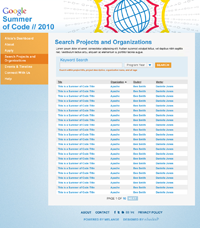
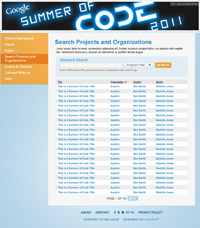
Add new mockups version 2-22

Changed region(s): [[0.0, 0.0, 1.0, 0.1535]]

diff --git a/mockups/homepage.html b/mockups/homepage.html
@@ -21,8 +21,7 @@
 <div id="page-header">
     <div class="container_12">
         <div class="grid_12">
-            <a href="homepage.html"><img src="images/google.png" height="40" width="114" alt="Google" /></a>
-            <p><a href="homepage.html">Summer<br />of Code // 2011</a></p>
+            <a href="homepage.html"><img src="images/logo-banner.jpg" height="156" width="924" alt="Google Summer of Code" /></a>
         </div>
     </div>
 </div>
@@ -94,7 +93,7 @@
                 </div>
                 <!-- .home-block-1 -->
                 
-                <div id="apply-students" class="content_column_1">
+                <div class="content_column_1">
                     <!-- begin block -->
                     <div id="apply-students" class="block block-students">
                         <img src="images/students-apply-now.jpg" height="107" width="429" alt="" id="block-apply-students-image" />
@@ -131,13 +130,13 @@
                     <div id="program-map" class="block block-project-timeline">
                         <h4 id="title-section-program-timeline">Program Timeline</h4>
                         <div id="block-program-timeline-content" class="block-content">
-                            <img id="program-timeline" src="images/image-map-student-apps.png" usemap="#program-timeline" width="210" height="169" alt="" />
+                            <img id="program-timeline" src="images/image-map-student-apps.png" usemap="#program-timeline" width="210" height="181" alt="" />
                             <map id="_program-timeline" name="program-timeline">
-                            <area shape="poly" coords="75,105,52,105,55,87,69,66,93,54,119,55,138,66,149,78,129,90,118,79,99,76,85,82,77,95," href="javascript:void(0)" alt="On Season" title="On Season" onmouseover="if(document.images) document.getElementById('program-timeline').src= 'images/image-map-on-season.png';" onMouseOut="if(document.images) document.getElementById('program-timeline').src= 'images/image-map-student-apps.png';" />
-                            <area shape="poly" coords="130,90,150,80,157,106,133,106," href="javascript:void(0)" alt="Students Applications" title="Students Coding" onmouseover="if(document.images) document.getElementById('program-timeline').src= 'images/image-map-student-apps.png';" onMouseOut="if(document.images) document.getElementById('program-timeline').src= 'images/image-map-student-apps.png';" />
-                            <area shape="poly" coords="131,121,136,106,157,107,151,133," href="javascript:void(0)" alt="Organization Applications" title="Organization Applications" onmouseover="if(document.images) document.getElementById('program-timeline').src= 'images/image-map-org-apps.png';" onMouseOut="if(document.images) document.getElementById('program-timeline').src= 'images/image-map-student-apps.png';" />
-                            <area shape="poly" coords="120,131,130,122,149,134,130,150," href="javascript:void(0)" alt="Kickoff" title="Kickoff" onmouseover="if(document.images) document.getElementById('program-timeline').src= 'images/image-map-kickoff.png';" onMouseOut="if(document.images) document.getElementById('program-timeline').src= 'images/image-map-student-apps.png';" />
-                            <area shape="poly" coords="119,132,129,151,103,157,83,152,65,138,55,121,53,106,75,106,81,126,101,135," href="javascript:void(0)" alt="Off Season" title="Off Season" onmouseover="if(document.images) document.getElementById('program-timeline').src= 'images/image-map-off-season.png';" onMouseOut="if(document.images) document.getElementById('program-timeline').src= 'images/image-map-student-apps.png';" />
+                            <area shape="poly" coords="45,113,56,79,78,60,107,55,134,63,155,84,133,98,118,82,94,79,77,93,72,114," href="javascript:void(0)" alt="On Season" title="On Season" onMouseOver="if(document.images) document.getElementById('program-timeline').src= 'images/image-map-on-season.png';" onMouseOut="if(document.images) document.getElementById('program-timeline').src= 'images/image-map-student-apps.png';" />
+                            <area shape="poly" coords="133,98,143,90,155,84,162,98,164,114,136,114," href="javascript:void(0)" alt="Students Applications" title="Students Applications" onMouseOver="if(document.images) document.getElementById('program-timeline').src= 'images/image-map-student-apps.png';" onMouseOut="if(document.images) document.getElementById('program-timeline').src= 'images/image-map-student-apps.png';" />
+                            <area shape="poly" coords="132,130,137,114,164,114,163,130,156,145,143,137" href="javascript:void(0)" alt="Organization Applications" title="Organization Applications" onMouseOver="if(document.images) document.getElementById('program-timeline').src= 'images/image-map-org-apps.png';" onMouseOut="if(document.images) document.getElementById('program-timeline').src= 'images/image-map-student-apps.png';" />
+                            <area shape="poly" coords="120,142,134,131,155,143,147,156,133,165," href="javascript:void(0)" alt="Kickoff" title="Kickoff" onMouseOver="if(document.images) document.getElementById('program-timeline').src= 'images/image-map-kickoff.png';" onMouseOut="if(document.images) document.getElementById('program-timeline').src= 'images/image-map-student-apps.png';" />
+                            <area shape="poly" coords="45,113,72,113,79,138,105,147,121,141,134,164,100,169,72,161,55,143,48,129," href="javascript:void(0)" alt="Off Season" title="Off Season" onMouseOver="if(document.images) document.getElementById('program-timeline').src= 'images/image-map-off-season.png';" onMouseOut="if(document.images) document.getElementById('program-timeline').src= 'images/image-map-student-apps.png';" />
                             </map>
                         </div>
                     </div>

diff --git a/mockups/homepage-offseason.html b/mockups/homepage-offseason.html
@@ -21,8 +21,7 @@
 <div id="page-header">
     <div class="container_12">
         <div class="grid_12">
-            <a href="homepage.html"><img src="images/google.png" height="40" width="114" alt="Google" /></a>
-            <p><a href="homepage.html">Summer<br />of Code // 2011</a></p>
+            <a href="homepage-offseason.html"><img src="images/logo-banner.jpg" height="156" width="924" alt="Google Summer of Code" /></a>
         </div>
     </div>
 </div>
@@ -135,13 +134,13 @@
                     <div id="program-map" class="block block-project-timeline">
                         <h4 id="title-section-program-timeline">Program Timeline</h4>
                         <div id="block-program-timeline-content" class="block-content">
-                            <img id="program-timeline" src="images/image-map-off-season.png" usemap="#program-timeline" width="210" height="169" alt="" />
+                            <img id="program-timeline" src="images/image-map-off-season.png" usemap="#program-timeline" width="210" height="181" alt="" />
                             <map id="_program-timeline" name="program-timeline">
-                            <area shape="poly" coords="75,105,52,105,55,87,69,66,93,54,119,55,138,66,149,78,129,90,118,79,99,76,85,82,77,95," href="javascript:void(0)" alt="On Season" title="On Season" onmouseover="if(document.images) document.getElementById('program-timeline').src= 'images/image-map-on-season.png';" onMouseOut="if(document.images) document.getElementById('program-timeline').src= 'images/image-map-off-season.png';" />
-                            <area shape="poly" coords="130,90,150,80,157,106,133,106," href="javascript:void(0)" alt="Student Applications" title="Student Applications" onmouseover="if(document.images) document.getElementById('program-timeline').src= 'images/image-map-student-apps.png';" onMouseOut="if(document.images) document.getElementById('program-timeline').src= 'images/image-map-off-season.png';" />
-                            <area shape="poly" coords="131,121,136,106,157,107,151,133," href="javascript:void(0)" alt="Organization Applications" title="Organization Applications" onmouseover="if(document.images) document.getElementById('program-timeline').src= 'images/image-map-org-apps.png';" onMouseOut="if(document.images) document.getElementById('program-timeline').src= 'images/image-map-off-season.png';" />
-                            <area shape="poly" coords="120,131,130,122,149,134,130,150," href="javascript:void(0)" alt="Kickoff" title="Kickoff" onmouseover="if(document.images) document.getElementById('program-timeline').src= 'images/image-map-kickoff.png';" onMouseOut="if(document.images) document.getElementById('program-timeline').src= 'images/image-map-off-season.png';" />
-                            <area shape="poly" coords="119,132,129,151,103,157,83,152,65,138,55,121,53,106,75,106,81,126,101,135," href="javascript:void(0)" alt="Off Season" title="Off Season" onmouseover="if(document.images) document.getElementById('program-timeline').src= 'images/image-map-off-season.png';" onMouseOut="if(document.images) document.getElementById('program-timeline').src= 'images/image-map-off-season.png';" />
+                            <area shape="poly" coords="45,113,56,79,78,60,107,55,134,63,155,84,133,98,118,82,94,79,77,93,72,114," href="javascript:void(0)" alt="On Season" title="On Season" onMouseOver="if(document.images) document.getElementById('program-timeline').src= 'images/image-map-on-season.png';" onMouseOut="if(document.images) document.getElementById('program-timeline').src= 'images/image-map-off-season.png';" />
+                            <area shape="poly" coords="133,98,143,90,155,84,162,98,164,114,136,114," href="javascript:void(0)" alt="Students Applications" title="Students Applications" onMouseOver="if(document.images) document.getElementById('program-timeline').src= 'images/image-map-student-apps.png';" onMouseOut="if(document.images) document.getElementById('program-timeline').src= 'images/image-map-off-season.png';" />
+                            <area shape="poly" coords="132,130,137,114,164,114,163,130,156,145,143,137" href="javascript:void(0)" alt="Organization Applications" title="Organization Applications" onMouseOver="if(document.images) document.getElementById('program-timeline').src= 'images/image-map-org-apps.png';" onMouseOut="if(document.images) document.getElementById('program-timeline').src= 'images/image-map-off-season.png';" />
+                            <area shape="poly" coords="120,142,134,131,155,143,147,156,133,165," href="javascript:void(0)" alt="Kickoff" title="Kickoff" onMouseOver="if(document.images) document.getElementById('program-timeline').src= 'images/image-map-kickoff.png';" onMouseOut="if(document.images) document.getElementById('program-timeline').src= 'images/image-map-off-season.png';" />
+                            <area shape="poly" coords="45,113,72,113,79,138,105,147,121,141,134,164,100,169,72,161,55,143,48,129," href="javascript:void(0)" alt="Off Season" title="Off Season" onMouseOver="if(document.images) document.getElementById('program-timeline').src= 'images/image-map-off-season.png';" onMouseOut="if(document.images) document.getElementById('program-timeline').src= 'images/image-map-off-season.png';" />
                             </map>
                         </div>
                     </div>

diff --git a/mockups/homepage-mentor.html b/mockups/homepage-mentor.html
@@ -21,8 +21,7 @@
 <div id="page-header">
     <div class="container_12">
         <div class="grid_12">
-            <a href="homepage.html"><img src="images/google.png" height="40" width="114" alt="Google" /></a>
-            <p><a href="homepage.html">Summer<br />of Code // 2011</a></p>
+            <a href="homepage-mentor.html"><img src="images/logo-banner.jpg" height="156" width="924" alt="Google Summer of Code" /></a>
         </div>
     </div>
 </div>
@@ -144,13 +143,13 @@
                     <div id="program-map" class="block block-project-timeline">
                         <h4 id="title-section-program-timeline">Program Timeline</h4>
                         <div id="block-program-timeline-content" class="block-content">
-                            <img id="program-timeline" src="images/image-map-org-apps.png" usemap="#program-timeline" width="210" height="169" alt="" />
+                            <img id="program-timeline" src="images/image-map-org-apps.png" usemap="#program-timeline" width="210" height="181" alt="" />
                             <map id="_program-timeline" name="program-timeline">
-                            <area shape="poly" coords="75,105,52,105,55,87,69,66,93,54,119,55,138,66,149,78,129,90,118,79,99,76,85,82,77,95," href="javascript:void(0)" alt="On Season" title="On Season" onmouseover="if(document.images) document.getElementById('program-timeline').src= 'images/image-map-on-season.png';" onMouseOut="if(document.images) document.getElementById('program-timeline').src= 'images/image-map-org-apps.png';" />
-                            <area shape="poly" coords="130,90,150,80,157,106,133,106," href="javascript:void(0)" alt="Student Applications" title="Student Applications" onmouseover="if(document.images) document.getElementById('program-timeline').src= 'images/image-map-student-apps.png';" onMouseOut="if(document.images) document.getElementById('program-timeline').src= 'images/image-map-org-apps.png';" />
-                            <area shape="poly" coords="131,121,136,106,157,107,151,133," href="javascript:void(0)" alt="Organization Applications" title="Organization Applications" onmouseover="if(document.images) document.getElementById('program-timeline').src= 'images/image-map-org-apps.png';" onMouseOut="if(document.images) document.getElementById('program-timeline').src= 'images/image-map-org-apps.png';" />
-                            <area shape="poly" coords="120,131,130,122,149,134,130,150," href="javascript:void(0)" alt="Kickoff" title="Kickoff" onmouseover="if(document.images) document.getElementById('program-timeline').src= 'images/image-map-kickoff.png';" onMouseOut="if(document.images) document.getElementById('program-timeline').src= 'images/image-map-org-apps.png';" />
-                            <area shape="poly" coords="119,132,129,151,103,157,83,152,65,138,55,121,53,106,75,106,81,126,101,135," href="javascript:void(0)" alt="Off Season" title="Off Season" onmouseover="if(document.images) document.getElementById('program-timeline').src= 'images/image-map-off-season.png';" onMouseOut="if(document.images) document.getElementById('program-timeline').src= 'images/image-map-org-apps.png';" />
+                            <area shape="poly" coords="45,113,56,79,78,60,107,55,134,63,155,84,133,98,118,82,94,79,77,93,72,114," href="javascript:void(0)" alt="On Season" title="On Season" onMouseOver="if(document.images) document.getElementById('program-timeline').src= 'images/image-map-on-season.png';" onMouseOut="if(document.images) document.getElementById('program-timeline').src= 'images/image-map-org-apps.png';" />
+                            <area shape="poly" coords="133,98,143,90,155,84,162,98,164,114,136,114," href="javascript:void(0)" alt="Students Applications" title="Students Applications" onMouseOver="if(document.images) document.getElementById('program-timeline').src= 'images/image-map-student-apps.png';" onMouseOut="if(document.images) document.getElementById('program-timeline').src= 'images/image-map-org-apps.png';" />
+                            <area shape="poly" coords="132,130,137,114,164,114,163,130,156,145,143,137" href="javascript:void(0)" alt="Organization Applications" title="Organization Applications" onMouseOver="if(document.images) document.getElementById('program-timeline').src= 'images/image-map-org-apps.png';" onMouseOut="if(document.images) document.getElementById('program-timeline').src= 'images/image-map-org-apps.png';" />
+                            <area shape="poly" coords="120,142,134,131,155,143,147,156,133,165," href="javascript:void(0)" alt="Kickoff" title="Kickoff" onMouseOver="if(document.images) document.getElementById('program-timeline').src= 'images/image-map-kickoff.png';" onMouseOut="if(document.images) document.getElementById('program-timeline').src= 'images/image-map-org-apps.png';" />
+                            <area shape="poly" coords="45,113,72,113,79,138,105,147,121,141,134,164,100,169,72,161,55,143,48,129," href="javascript:void(0)" alt="Off Season" title="Off Season" onMouseOver="if(document.images) document.getElementById('program-timeline').src= 'images/image-map-off-season.png';" onMouseOut="if(document.images) document.getElementById('program-timeline').src= 'images/image-map-org-apps.png';" />
                             </map>
                         </div>
                     </div>

diff --git a/mockups/homepage-orgs.html b/mockups/homepage-orgs.html
@@ -21,8 +21,7 @@
 <div id="page-header">
     <div class="container_12">
         <div class="grid_12">
-            <a href="homepage.html"><img src="images/google.png" height="40" width="114" alt="Google" /></a>
-            <p><a href="homepage.html">Summer<br />of Code // 2011</a></p>
+            <a href="homepage-orgs.html"><img src="images/logo-banner.jpg" height="156" width="924" alt="Google Summer of Code" /></a>
         </div>
     </div>
 </div>
@@ -133,13 +132,13 @@
                     <div id="program-map" class="block block-project-timeline">
                         <h4 id="title-section-program-timeline">Program Timeline</h4>
                         <div id="block-program-timeline-content" class="block-content">
-                            <img id="program-timeline" src="images/image-map-org-apps.png" usemap="#program-timeline" width="210" height="169" alt="" />
+                            <img id="program-timeline" src="images/image-map-org-apps.png" usemap="#program-timeline" width="210" height="181" alt="" />
                             <map id="_program-timeline" name="program-timeline">
-                            <area shape="poly" coords="75,105,52,105,55,87,69,66,93,54,119,55,138,66,149,78,129,90,118,79,99,76,85,82,77,95," href="javascript:void(0)" alt="On Season" title="On Season" onmouseover="if(document.images) document.getElementById('program-timeline').src= 'images/image-map-on-season.png';" onMouseOut="if(document.images) document.getElementById('program-timeline').src= 'images/image-map-org-apps.png';" />
-                            <area shape="poly" coords="130,90,150,80,157,106,133,106," href="javascript:void(0)" alt="Student Applications" title="Student Applications" onmouseover="if(document.images) document.getElementById('program-timeline').src= 'images/image-map-student-apps.png';" onMouseOut="if(document.images) document.getElementById('program-timeline').src= 'images/image-map-org-apps.png';" />
-                            <area shape="poly" coords="131,121,136,106,157,107,151,133," href="javascript:void(0)" alt="Organization Applications" title="Organization Applications" onmouseover="if(document.images) document.getElementById('program-timeline').src= 'images/image-map-org-apps.png';" onMouseOut="if(document.images) document.getElementById('program-timeline').src= 'images/image-map-org-apps.png';" />
-                            <area shape="poly" coords="120,131,130,122,149,134,130,150," href="javascript:void(0)" alt="Kickoff" title="Kickoff" onmouseover="if(document.images) document.getElementById('program-timeline').src= 'images/image-map-kickoff.png';" onMouseOut="if(document.images) document.getElementById('program-timeline').src= 'images/image-map-org-apps.png';" />
-                            <area shape="poly" coords="119,132,129,151,103,157,83,152,65,138,55,121,53,106,75,106,81,126,101,135," href="javascript:void(0)" alt="Off Season" title="Off Season" onmouseover="if(document.images) document.getElementById('program-timeline').src= 'images/image-map-off-season.png';" onMouseOut="if(document.images) document.getElementById('program-timeline').src= 'images/image-map-org-apps.png';" />
+                            <area shape="poly" coords="45,113,56,79,78,60,107,55,134,63,155,84,133,98,118,82,94,79,77,93,72,114," href="javascript:void(0)" alt="On Season" title="On Season" onMouseOver="if(document.images) document.getElementById('program-timeline').src= 'images/image-map-on-season.png';" onMouseOut="if(document.images) document.getElementById('program-timeline').src= 'images/image-map-org-apps.png';" />
+                            <area shape="poly" coords="133,98,143,90,155,84,162,98,164,114,136,114," href="javascript:void(0)" alt="Students Applications" title="Students Applications" onMouseOver="if(document.images) document.getElementById('program-timeline').src= 'images/image-map-student-apps.png';" onMouseOut="if(document.images) document.getElementById('program-timeline').src= 'images/image-map-org-apps.png';" />
+                            <area shape="poly" coords="132,130,137,114,164,114,163,130,156,145,143,137" href="javascript:void(0)" alt="Organization Applications" title="Organization Applications" onMouseOver="if(document.images) document.getElementById('program-timeline').src= 'images/image-map-org-apps.png';" onMouseOut="if(document.images) document.getElementById('program-timeline').src= 'images/image-map-org-apps.png';" />
+                            <area shape="poly" coords="120,142,134,131,155,143,147,156,133,165," href="javascript:void(0)" alt="Kickoff" title="Kickoff" onMouseOver="if(document.images) document.getElementById('program-timeline').src= 'images/image-map-kickoff.png';" onMouseOut="if(document.images) document.getElementById('program-timeline').src= 'images/image-map-org-apps.png';" />
+                            <area shape="poly" coords="45,113,72,113,79,138,105,147,121,141,134,164,100,169,72,161,55,143,48,129," href="javascript:void(0)" alt="Off Season" title="Off Season" onMouseOver="if(document.images) document.getElementById('program-timeline').src= 'images/image-map-off-season.png';" onMouseOut="if(document.images) document.getElementById('program-timeline').src= 'images/image-map-org-apps.png';" />
                             </map>
                         </div>
                     </div>

diff --git a/mockups/jqgrid.html b/mockups/jqgrid.html
@@ -34,39 +34,7 @@
     <script src="js/grid.locale-en.js" type="text/javascript"></script>
     <script src="js/jquery.jqGrid.min.js" type="text/javascript"></script>
     <script type="text/javascript">
-
-		jQuery(document).ready(function() {
-			jQuery("#list4").jqGrid({
-				datatype: "local",
-				height: 250,
-			   	colNames:['Inv No','Date', 'Client', 'Amount','Tax','Total','Notes'],
-			   	colModel:[
-			   		{name:'id',index:'id', width:60, sorttype:"int"},
-			   		{name:'invdate',index:'invdate', width:90, sorttype:"date"},
-			   		{name:'name',index:'name', width:100},
-			   		{name:'amount',index:'amount', width:80, align:"right",sorttype:"float"},
-			   		{name:'tax',index:'tax', width:80, align:"right",sorttype:"float"},		
-			   		{name:'total',index:'total', width:80,align:"right",sorttype:"float"},		
-			   		{name:'note',index:'note', width:150, sortable:false}		
-			   	],
-			   	multiselect: true,
-			   	caption: "Manipulating Array Data"
-			});
-			var mydata = [
-					{id:"1",invdate:"2007-10-01",name:"test",note:"note",amount:"200.00",tax:"10.00",total:"210.00"},
-					{id:"2",invdate:"2007-10-02",name:"test2",note:"note2",amount:"300.00",tax:"20.00",total:"320.00"},
-					{id:"3",invdate:"2007-09-01",name:"test3",note:"note3",amount:"400.00",tax:"30.00",total:"430.00"},
-					{id:"4",invdate:"2007-10-04",name:"test",note:"note",amount:"200.00",tax:"10.00",total:"210.00"},
-					{id:"5",invdate:"2007-10-05",name:"test2",note:"note2",amount:"300.00",tax:"20.00",total:"320.00"},
-					{id:"6",invdate:"2007-09-06",name:"test3",note:"note3",amount:"400.00",tax:"30.00",total:"430.00"},
-					{id:"7",invdate:"2007-10-04",name:"test",note:"note",amount:"200.00",tax:"10.00",total:"210.00"},
-					{id:"8",invdate:"2007-10-03",name:"test2",note:"note2",amount:"300.00",tax:"20.00",total:"320.00"},
-					{id:"9",invdate:"2007-09-01",name:"test3",note:"note3",amount:"400.00",tax:"30.00",total:"430.00"}
-					];
-			for(var i=0;i<=mydata.length;i++)
-				jQuery("#list4").jqGrid('addRowData',i+1,mydata[i]);			
-		})
-
+        jQuery("#list4").jqGrid({ datatype: "local", height: 250, colNames:['Inv No','Date', 'Client', 'Amount','Tax','Total','Notes'], colModel:[ {name:'id',index:'id', width:60, sorttype:"int"}, {name:'invdate',index:'invdate', width:90, sorttype:"date"}, {name:'name',index:'name', width:100}, {name:'amount',index:'amount', width:80, align:"right",sorttype:"float"}, {name:'tax',index:'tax', width:80, align:"right",sorttype:"float"}, {name:'total',index:'total', width:80,align:"right",sorttype:"float"}, {name:'note',index:'note', width:150, sortable:false} ], multiselect: true, caption: "Manipulating Array Data" }); var mydata = [ {id:"1",invdate:"2007-10-01",name:"test",note:"note",amount:"200.00",tax:"10.00",total:"210.00"}, {id:"2",invdate:"2007-10-02",name:"test2",note:"note2",amount:"300.00",tax:"20.00",total:"320.00"}, {id:"3",invdate:"2007-09-01",name:"test3",note:"note3",amount:"400.00",tax:"30.00",total:"430.00"}, {id:"4",invdate:"2007-10-04",name:"test",note:"note",amount:"200.00",tax:"10.00",total:"210.00"}, {id:"5",invdate:"2007-10-05",name:"test2",note:"note2",amount:"300.00",tax:"20.00",total:"320.00"}, {id:"6",invdate:"2007-09-06",name:"test3",note:"note3",amount:"400.00",tax:"30.00",total:"430.00"}, {id:"7",invdate:"2007-10-04",name:"test",note:"note",amount:"200.00",tax:"10.00",total:"210.00"}, {id:"8",invdate:"2007-10-03",name:"test2",note:"note2",amount:"300.00",tax:"20.00",total:"320.00"}, {id:"9",invdate:"2007-09-01",name:"test3",note:"note3",amount:"400.00",tax:"30.00",total:"430.00"} ]; for(var i=0;i<=mydata.length;i++) jQuery("#list4").jqGrid('addRowData',i+1,mydata[i]); 
     </script>
     <!-- 
     ////////////////////////
@@ -86,8 +54,7 @@
 <div id="page-header">
     <div class="container_12">
         <div class="grid_12">
-            <a href="homepage.html"><img src="images/google.png" height="40" width="114" alt="Google" /></a>
-            <p><a href="homepage.html">Summer<br />of Code // 2011</a></p>
+            <a href="homepage.html"><img src="images/logo-banner.jpg" height="156" width="924" alt="Google Summer of Code" /></a>
         </div>
     </div>
 </div>

diff --git a/mockups/dashboard-student.html b/mockups/dashboard-student.html
@@ -71,8 +71,7 @@
 <div id="page-header">
     <div class="container_12">
         <div class="grid_12">
-            <a href="homepage.html"><img src="images/google.png" height="40" width="114" alt="Google" /></a>
-            <p><a href="homepage.html">Summer<br />of Code // 2011</a></p>
+            <a href="homepage.html"><img src="images/logo-banner.jpg" height="156" width="924" alt="Google Summer of Code" /></a>
         </div>
     </div>
 </div>
@@ -130,7 +129,8 @@
                     <strong>ALERT:</strong> Your evaluations of your students are due in <strong>3 days</strong>.
                 </div>
                 
-                <h1 id="main-page-title">Alicia Thomson’s Dashboard</h1>
+                <h1 id="main-page-title" class="dashboard-title">Alicia Thomson’s Dashboard</h1>
+                <p id="user-logged-in">You are logged in as socstudent@gmail.com. <a href="javascript:void(0)">(Not you?)</a></p>
                 
                 <!-- begin block -->
                 <div id="proposals" class="block">

diff --git a/mockups/dashboard-admin.html b/mockups/dashboard-admin.html
@@ -72,8 +72,7 @@
 <div id="page-header">
     <div class="container_12">
         <div class="grid_12">
-            <a href="homepage.html"><img src="images/google.png" height="40" width="114" alt="Google" /></a>
-            <p><a href="homepage.html">Summer<br />of Code // 2011</a></p>
+            <a href="homepage.html"><img src="images/logo-banner.jpg" height="156" width="924" alt="Google Summer of Code" /></a>
         </div>
     </div>
 </div>
@@ -127,7 +126,8 @@
                     <strong>ALERT:</strong> Your evaluations of your students are due in <strong>3 days</strong>.
                 </div>
                 
-                <h1 id="main-page-title">Eric Schmidt's Dashboard</h1>
+                <h1 id="main-page-title" class="dashboard-title">Eric Schmidt's Dashboard</h1>
+                <p id="user-logged-in">You are logged in as socstudent@gmail.com. <a href="javascript:void(0)">(Not you?)</a></p>
                 
                 <!-- begin block -->
                 <div id="proposals" class="block">

diff --git a/mockups/dashboard.html b/mockups/dashboard.html
@@ -71,8 +71,7 @@
 <div id="page-header">
     <div class="container_12">
         <div class="grid_12">
-            <a href="homepage.html"><img src="images/google.png" height="40" width="114" alt="Google" /></a>
-            <p><a href="homepage.html">Summer<br />of Code // 2011</a></p>
+            <a href="homepage.html"><img src="images/logo-banner.jpg" height="156" width="924" alt="Google Summer of Code" /></a>
         </div>
     </div>
 </div>
@@ -126,7 +125,8 @@
                     <strong>ALERT:</strong> Your evaluations of your students are due in <strong>3 days</strong>.
                 </div>
                 
-                <h1 id="main-page-title">Eric Schmidt's Dashboard</h1>
+                <h1 id="main-page-title" class="dashboard-title">Eric Schmidt's Dashboard</h1>
+                <p id="user-logged-in">You are logged in as socstudent@gmail.com. <a href="javascript:void(0)">(Not you?)</a></p>
                 
                 <!-- begin block -->
                 <div id="proposals" class="block">

diff --git a/mockups/css/structure.less b/mockups/css/structure.less
@@ -33,12 +33,8 @@
     background: #fff url(../images/header-bg.png) bottom left repeat-x;
     height: 156px;
     width: 100%;
-    .grid_12 {/*globe*/
-        background:url(../images/header-globe.gif) bottom right no-repeat;
+    .grid_12 {
         height: 156px;
-    }
-    img {
-        margin: 35px 0 0 10px;
     }
     h1, p {
         color: @lightblue;
@@ -165,9 +161,9 @@
         width: 429px;
         
         .block-students {/*students apply now block*/
-            background:url(../images/home-block-students-bg.gif) 0 0 no-repeat;
+            background:url(../images/home-block-students-bg.gif) 0 0 repeat-y;
             color: #004371;
-            padding-bottom: 15px;
+            padding-bottom: 5px;
             text-align: center;
             
             h3 {

diff --git a/mockups/css/structure.css b/mockups/css/structure.css
@@ -27,13 +27,7 @@
   width: 100%;
 }
 #page-header .grid_12 {
-  /*globe*/
-
-  background: url(../images/header-globe.gif) bottom right no-repeat;
   height: 156px;
-}
-#page-header img {
-  margin: 35px 0 0 10px;
 }
 #page-header h1, #page-header p {
   color: #238bd2;
@@ -172,9 +166,9 @@
 #main .content_column_1 .block-students {
   /*students apply now block*/
 
-  background: url(../images/home-block-students-bg.gif) 0 0 no-repeat;
+  background: url(../images/home-block-students-bg.gif) 0 0 repeat-y;
   color: #004371;
-  padding-bottom: 15px;
+  padding-bottom: 5px;
   text-align: center;
 }
 #main .content_column_1 .block-students h3 {

diff --git a/mockups/jqueryui.html b/mockups/jqueryui.html
@@ -117,8 +117,7 @@
 <div id="page-header">
     <div class="container_12">
         <div class="grid_12">
-            <a href="homepage.html"><img src="images/google.png" height="40" width="114" alt="Google" /></a>
-            <p><a href="homepage.html">Summer<br />of Code // 2011</a></p>
+            <a href="homepage.html"><img src="images/logo-banner.jpg" height="156" width="924" alt="Google Summer of Code" /></a>
         </div>
     </div>
 </div>

diff --git a/mockups/appform.html b/mockups/appform.html
@@ -66,8 +66,7 @@
 <div id="page-header">
     <div class="container_12">
         <div class="grid_12">
-            <a href="homepage.html"><img src="images/google.png" height="40" width="114" alt="Google" /></a>
-            <p><a href="homepage.html">Summer<br />of Code // 2011</a></p>
+            <a href="homepage.html"><img src="images/logo-banner.jpg" height="156" width="924" alt="Google Summer of Code" /></a>
         </div>
     </div>
 </div>
